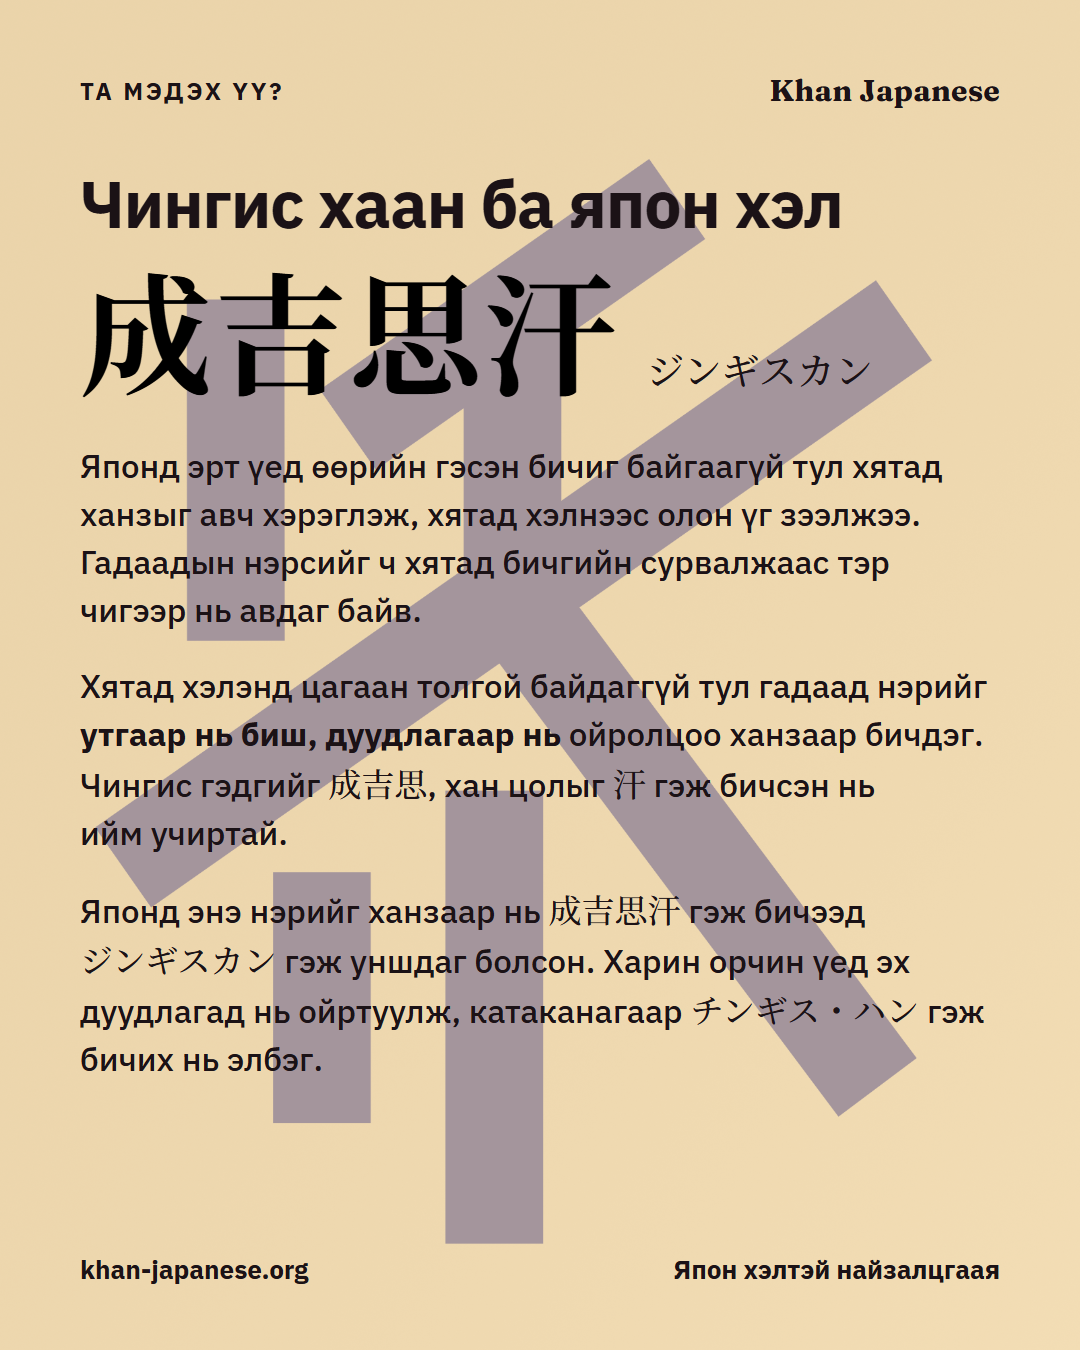
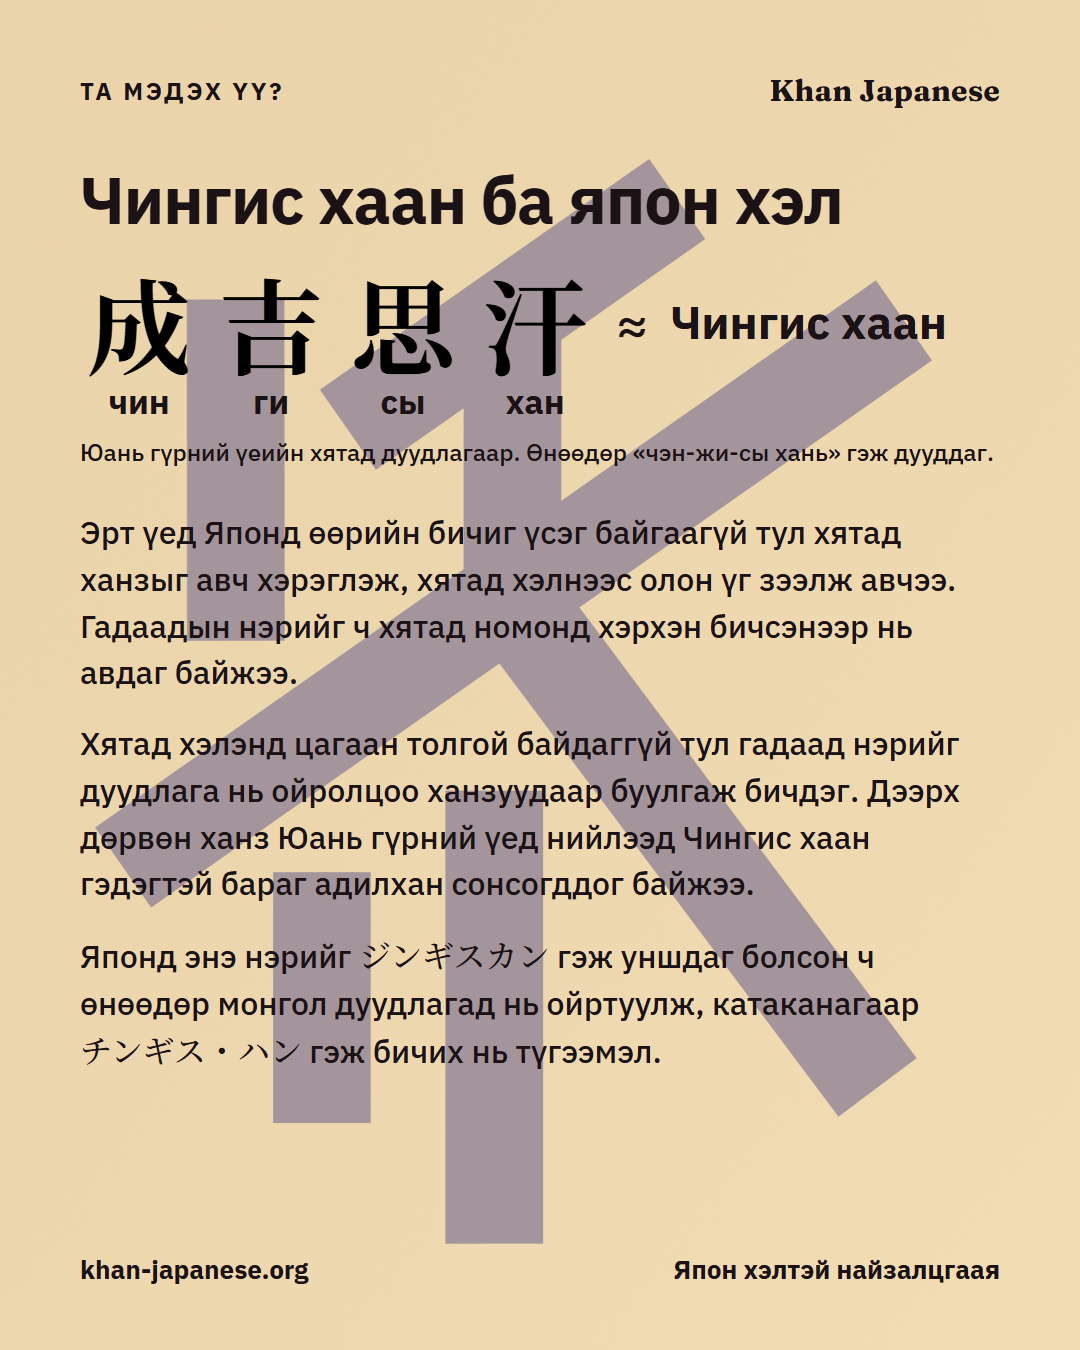
Fact post: show how 成吉思汗 sounds out Чингис хаан, and smoother Mongolian
The user asked for more natural wording and for the sounds of 成吉思汗 to be
explained. The hero is now a sound row: each character above the sound it
stood for, 成 чин · 吉 ги · 思 сы · 汗 хан ≈ Чингис хаан.

Those are Yuan-era values, deliberately. The name was written down then,
when 吉 still had a hard g/k sound (it became "ji" centuries later) and 成 was
close to "ching". Modern Mandarin, chéng-jí-sī hán, matches the name far less
well, so it goes in a small note ("Өнөөдөр «чэн-жи-сы хань» гэж дууддаг") for
anyone who checks a dictionary.

Wording: "бичиг" -> "бичиг үсэг", "зээлжээ" -> "зээлж авчээ", foreign names
"taken as Chinese books wrote them", "эх дуудлага" -> "монгол дуудлага",
"элбэг" -> "түгээмэл", and the ジンギスカン / チンギス・ハン readings joined
into one sentence. Caption matches.

Changed region(s): [[0.0611, 0.1244, 0.9167, 0.8089], [0.6722, 0.1244, 0.7639, 0.1867]]

diff --git a/_marketing/facebook/make-fact-han.js b/_marketing/facebook/make-fact-han.js
@@ -1,4 +1,5 @@
-// Facebook post image: "Чингис хаан ба япон хэл" -- why Japanese writes Chinggis Khaan as 成吉思汗.
+// Facebook post image: "Чингис хаан ба япон хэл" -- why Japanese writes Chinggis Khaan as 成吉思汗, and how
+// the sounds of those four characters add up to the name.
 // Run by hand: python -m http.server 8123 (repo root), then node make-fact-han.js
 //
 // 1080x1350 (4:5), the tallest shape Facebook shows uncropped in the feed.
@@ -7,15 +8,17 @@
 //
 // What the text says, and why it holds up:
 //  - Japan had no writing of its own, took up Chinese characters and borrowed a great deal of Chinese
-//    vocabulary; foreign names also came in through Chinese written sources.
-//  - Chinese has no alphabet, so foreign names are written with characters picked for their sound:
-//    Chinggis -> 成吉思, the title khan -> 汗.
-//  - In Japan the name is written 成吉思汗 and read ジンギスカン; today it is often written in katakana
-//    as チンギス・ハン, closer to the original. It does NOT claim ジンギスカン is the on'yomi of those
-//    characters -- it isn't (成 is セイ/ジョウ), so the text only says that is how it is read.
+//    vocabulary; foreign names were taken as Chinese books wrote them.
+//  - Chinese has no alphabet, so foreign names are written with characters picked mainly for sound.
+//  - The sound row uses YUAN-ERA values, because that is when 成吉思 was written down: 成 ~ chin(g),
+//    吉 ~ gi (velar -- 吉 only palatalised to "ji" centuries later), 思 ~ sy, 汗 ~ han. That is why it matches
+//    Чингис хаан so closely. Modern Mandarin (chéng jí sī hán, "чэн-жи-сы хань") is given as a small note
+//    so a reader who checks a dictionary is not thrown.
+//  - Japan reads 成吉思汗 as ジンギスカン; today チンギス・ハン in katakana, closer to the Mongolian, is common.
+//    It does NOT claim ジンギスカン is the on'yomi of those characters -- it isn't.
 //
-// Wording rules from the user's reviews: no "хятадууд" (sounds racist -- name the language, not the
-// people); no "汗 means sweat" angle (off-putting); no logo sentence; short, but not bare.
+// Wording rules from the user's reviews: no "хятадууд" (name the language, not the people); no
+// "汗 means sweat" angle; no logo sentence; short, but not bare.
 // Cyrillic in IBM Plex Sans (Fraunces has no Cyrillic); kanji and kana in Noto Serif JP (SIL OFL).
 // The page is served over http, not file://, or Chromium blocks the vendored webfonts.
 const { chromium } = require('playwright');
@@ -25,6 +28,9 @@ const EXE = process.env.LOCALAPPDATA + '/ms-playwright/chromium-1234/chrome-win6
 const W = 1080, H = 1350;
 const JP = "'Noto Serif JP', 'Yu Mincho', serif";
 const LOGO = 'http://localhost:8123/_marketing/brand/khan-japanese-logo-master.png';
+
+// character -> its sound when the name was transcribed
+const SOUNDS = [['成', 'чин'], ['吉', 'ги'], ['思', 'сы'], ['汗', 'хан']];
 
 const html = `<!doctype html><html lang="mn"><head><meta charset="utf-8">
 <link rel="stylesheet" href="http://localhost:8123/fonts/fonts.css">
@@ -38,14 +44,21 @@ const html = `<!doctype html><html lang="mn"><head><meta charset="utf-8">
   .page{position:absolute;inset:0;padding:72px 80px 64px;display:flex;flex-direction:column}
   .top{display:flex;justify-content:space-between;align-items:center;font-size:24px;font-weight:700;letter-spacing:0.12em;color:#1b1216}
   .top .brand{font-family:'Fraunces',Georgia,serif;letter-spacing:0.01em;font-size:30px}
-  h1{margin-top:58px;font-size:66px;line-height:1.1;font-weight:700;letter-spacing:-0.015em}
-  .name{margin-top:22px;display:flex;align-items:baseline;gap:28px}
-  .name .kanji{font-family:${JP};font-weight:700;font-size:132px;line-height:1;color:#000;letter-spacing:0.02em}
-  .name .kana{font-family:${JP};font-weight:500;font-size:38px;color:#1b1216}
-  .body{margin-top:46px;display:flex;flex-direction:column;gap:28px;font-size:33px;line-height:1.46;font-weight:500}
+  h1{margin-top:54px;font-size:66px;line-height:1.1;font-weight:700;letter-spacing:-0.015em}
+
+  /* the four characters, each with the sound it stood for */
+  .sounds{margin-top:34px}
+  .row{display:flex;align-items:center;gap:14px}
+  .cell{display:flex;flex-direction:column;align-items:center;min-width:118px}
+  .cell .k{font-family:${JP};font-weight:700;font-size:104px;line-height:1;color:#000}
+  .cell .s{margin-top:10px;font-size:34px;font-weight:700;line-height:1}
+  .row .eq{font-size:52px;font-weight:500;margin:0 6px 44px}
+  .row .result{font-size:46px;font-weight:700;margin-bottom:44px;white-space:nowrap}
+  .era{margin-top:18px;font-size:24px;font-weight:500;line-height:1.4;text-wrap:balance}
+  .era .nw{white-space:nowrap}
+
+  .body{margin-top:40px;display:flex;flex-direction:column;gap:24px;font-size:32px;line-height:1.46;font-weight:500}
   .body .jp{font-family:${JP};font-weight:500;white-space:nowrap}
-  .body b{font-weight:700}
-  /* no single word stranded on a paragraph's last line */
   .body p{text-wrap:pretty}
   .foot{margin-top:auto;display:flex;justify-content:space-between;align-items:baseline;font-size:26px;font-weight:700}
 </style></head><body>
@@ -53,11 +66,17 @@ const html = `<!doctype html><html lang="mn"><head><meta charset="utf-8">
 <div class="page">
   <div class="top"><span>ТА МЭДЭХ ҮҮ?</span><span class="brand">Khan Japanese</span></div>
   <h1>Чингис хаан ба япон хэл</h1>
-  <div class="name"><span class="kanji">成吉思汗</span><span class="kana">ジンギスカン</span></div>
+  <div class="sounds">
+    <div class="row">
+      ${SOUNDS.map(([k, s]) => `<div class="cell"><span class="k">${k}</span><span class="s">${s}</span></div>`).join('\n      ')}
+      <span class="eq">≈</span><span class="result">Чингис хаан</span>
+    </div>
+    <div class="era">Юань гүрний үеийн хятад дуудлагаар. Өнөөдөр <span class="nw">«чэн-жи-сы хань»</span> гэж дууддаг.</div>
+  </div>
   <div class="body">
-    <p>Японд эрт үед өөрийн гэсэн бичиг байгаагүй тул хятад ханзыг авч хэрэглэж, хятад хэлнээс олон үг зээлжээ. Гадаадын нэрсийг&nbsp;ч хятад бичгийн сурвалжаас тэр чигээр нь авдаг байв.</p>
-    <p>Хятад хэлэнд цагаан толгой байдаггүй тул гадаад нэрийг <b>утгаар нь биш, дуудлагаар нь</b> ойролцоо ханзаар бичдэг. Чингис гэдгийг <span class="jp">成吉思</span>, хан цолыг <span class="jp">汗</span> гэж бичсэн нь ийм учиртай.</p>
-    <p>Японд энэ нэрийг ханзаар нь <span class="jp">成吉思汗</span> гэж бичээд <span class="jp">ジンギスカン</span> гэж уншдаг болсон. Харин орчин үед эх дуудлагад нь ойртуулж, катаканагаар <span class="jp">チンギス・ハン</span> гэж бичих нь элбэг.</p>
+    <p>Эрт үед Японд өөрийн бичиг үсэг байгаагүй тул хятад ханзыг авч хэрэглэж, хятад хэлнээс олон үг зээлж авчээ. Гадаадын нэрийг&nbsp;ч хятад номонд хэрхэн бичсэнээр нь авдаг байжээ.</p>
+    <p>Хятад хэлэнд цагаан толгой байдаггүй тул гадаад нэрийг дуудлага нь ойролцоо ханзуудаар буулгаж бичдэг. Дээрх дөрвөн ханз Юань гүрний үед нийлээд Чингис хаан гэдэгтэй бараг адилхан сонсогддог байжээ.</p>
+    <p>Японд энэ нэрийг <span class="jp">ジンギスカン</span> гэж уншдаг болсон&nbsp;ч өнөөдөр монгол дуудлагад нь ойртуулж, катаканагаар <span class="jp">チンギス・ハン</span> гэж бичих нь түгээмэл.</p>
   </div>
   <div class="foot"><span>khan-japanese.org</span><span>Япон хэлтэй найзалцгаая</span></div>
 </div>
@@ -76,17 +95,21 @@ const html = `<!doctype html><html lang="mn"><head><meta charset="utf-8">
         const img = document.querySelector('.logo');
         const foot = document.querySelector('.foot').getBoundingClientRect();
         const body = document.querySelector('.body').getBoundingClientRect();
+        const row = document.querySelector('.row');
+        const rowRight = Math.max(...[...row.children].map(c => c.getBoundingClientRect().right));
         const h1 = document.querySelector('h1');
         return { noto: loaded('Noto Serif JP'), plex: loaded('IBM Plex Sans'), logo: img.complete && img.naturalWidth,
                  h1Lines: Math.round(h1.getBoundingClientRect().height / parseFloat(getComputedStyle(h1).lineHeight)),
-                 footBottom: foot.bottom, bodyBottom: body.bottom, footTop: foot.top };
+                 rowRight, footBottom: foot.bottom, bodyBottom: body.bottom, footTop: foot.top };
     });
     if (!check.noto || !check.plex) throw new Error('a font did not load: ' + JSON.stringify(check));
     if (!check.logo) throw new Error('the logo image did not load -- is the local server running from the repo root?');
     if (check.h1Lines !== 1) throw new Error('the title wraps to ' + check.h1Lines + ' lines');
+    if (check.rowRight > W - 80) throw new Error('the sound row runs past the margin: right edge ' + Math.round(check.rowRight));
     if (check.bodyBottom > check.footTop - 20 || check.footBottom > H) throw new Error('text overflows the card: ' + JSON.stringify(check));
     await page.screenshot({ path: path.join(__dirname, 'fact-han.png') });
     fs.unlinkSync(tmp);
-    console.log('fact-han.png ' + W + 'x' + H + '  fonts ok, title on one line, body ends ' + Math.round(check.bodyBottom) + 'px, footer at ' + Math.round(check.footTop) + 'px');
+    console.log('fact-han.png ' + W + 'x' + H + '  fonts ok, title on one line, sound row ends at ' + Math.round(check.rowRight)
+        + 'px, body ends ' + Math.round(check.bodyBottom) + 'px, footer at ' + Math.round(check.footTop) + 'px');
     await browser.close();
 })();

diff --git a/_marketing/facebook/page-text.md b/_marketing/facebook/page-text.md
@@ -76,9 +76,11 @@ Attach **fact-han.png** to this one. It has no link preview to conflict with, so
 
 Японоор Чингис хааныг ханзаар 成吉思汗 гэж бичдэг. Яагаад?
 
-Японд эрт үед өөрийн гэсэн бичиг байгаагүй тул хятад ханзыг авч хэрэглэж, хятад хэлнээс олон үг зээлжээ. Хятад хэлэнд цагаан толгой байдаггүй тул гадаад нэрийг утгаар нь биш, дуудлагаар нь ойролцоо ханзаар бичдэг. Чингис гэдгийг 成吉思, хан цолыг 汗 гэж бичсэн нь ийм учиртай.
+Эрт үед Японд өөрийн бичиг үсэг байгаагүй тул хятад ханзыг авч хэрэглэж, хятад хэлнээс олон үг зээлж авчээ. Гадаадын нэрийг ч хятад номонд хэрхэн бичсэнээр нь авдаг байжээ.
 
-Орчин үед эх дуудлагад нь ойртуулж, катаканагаар チンギス・ハン гэж бичих нь элбэг.
+Хятад хэлэнд цагаан толгой байдаггүй тул гадаад нэрийг дуудлага нь ойролцоо ханзуудаар буулгаж бичдэг. Юань гүрний үеийн хятад дуудлагаар 成 (чин), 吉 (ги), 思 (сы), 汗 (хан) гэж уншигддаг байсан тул нийлээд Чингис хаан гэдэгтэй бараг адилхан сонсогддог байжээ.
+
+Японд энэ нэрийг ジンギスカン гэж уншдаг болсон ч өнөөдөр монгол дуудлагад нь ойртуулж, катаканагаар チンギス・ハン гэж бичих нь түгээмэл.
 
 https://khan-japanese.org
 
